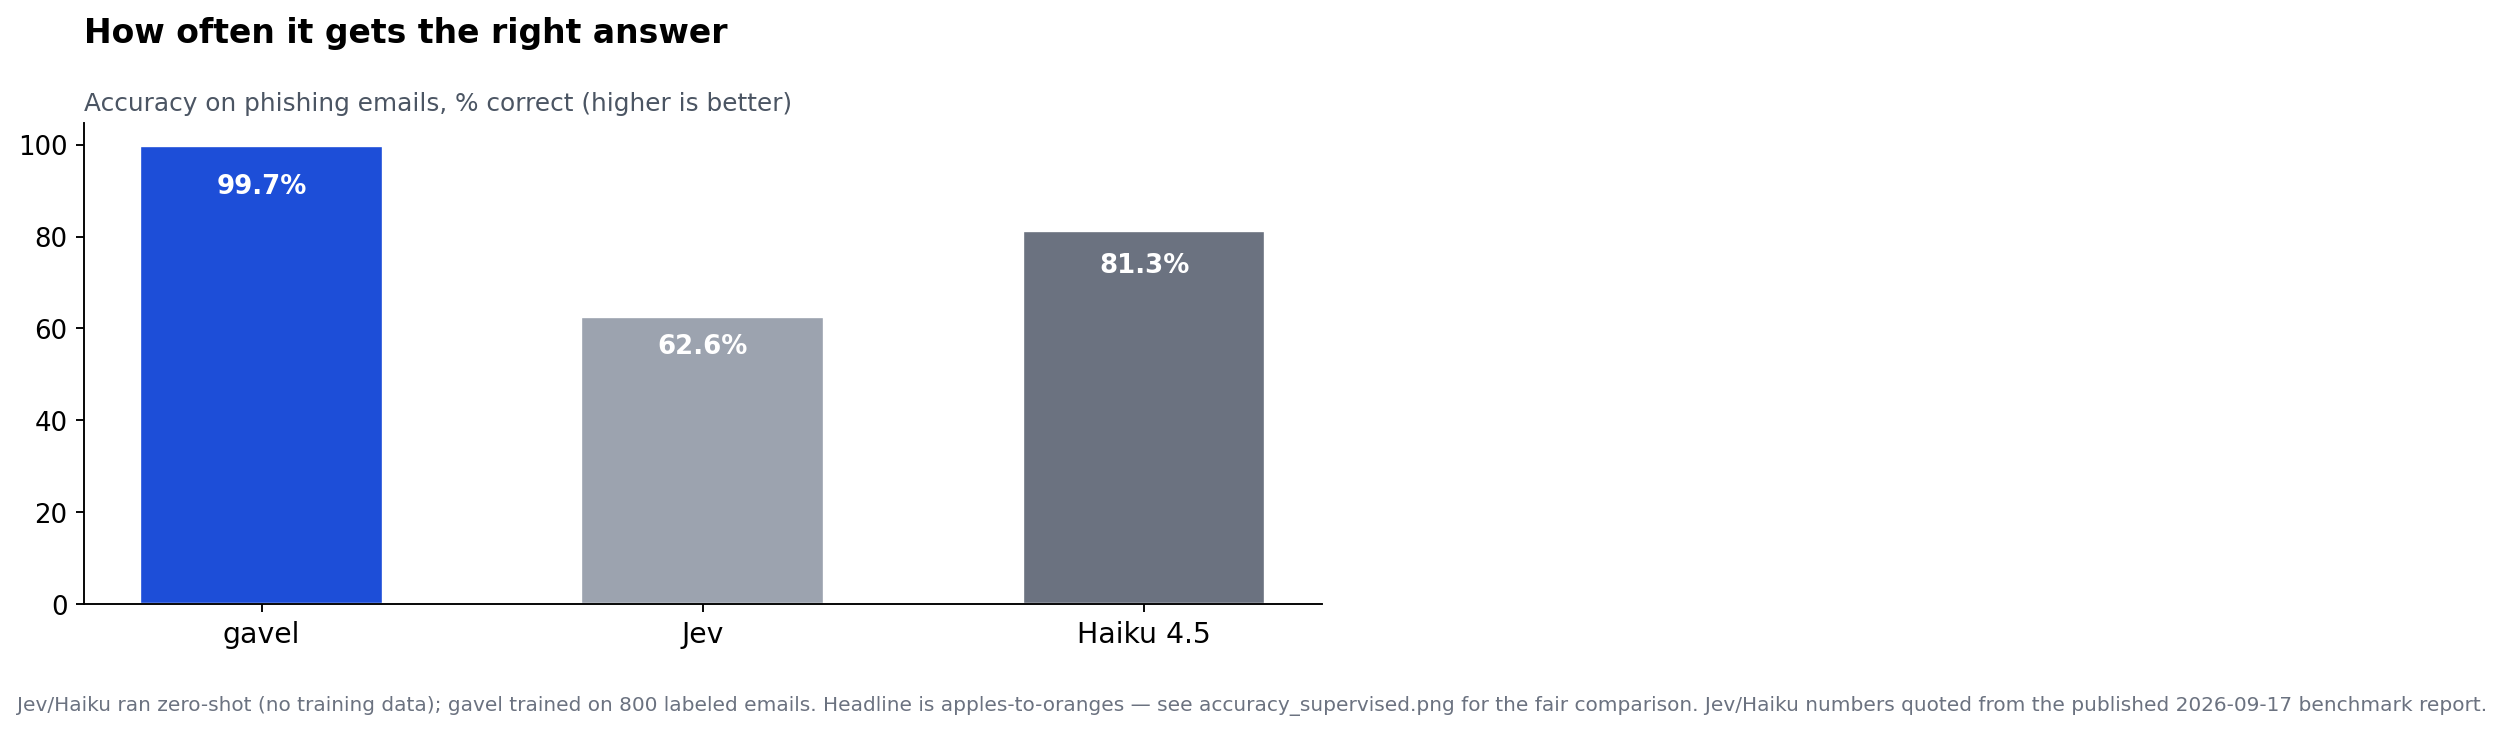
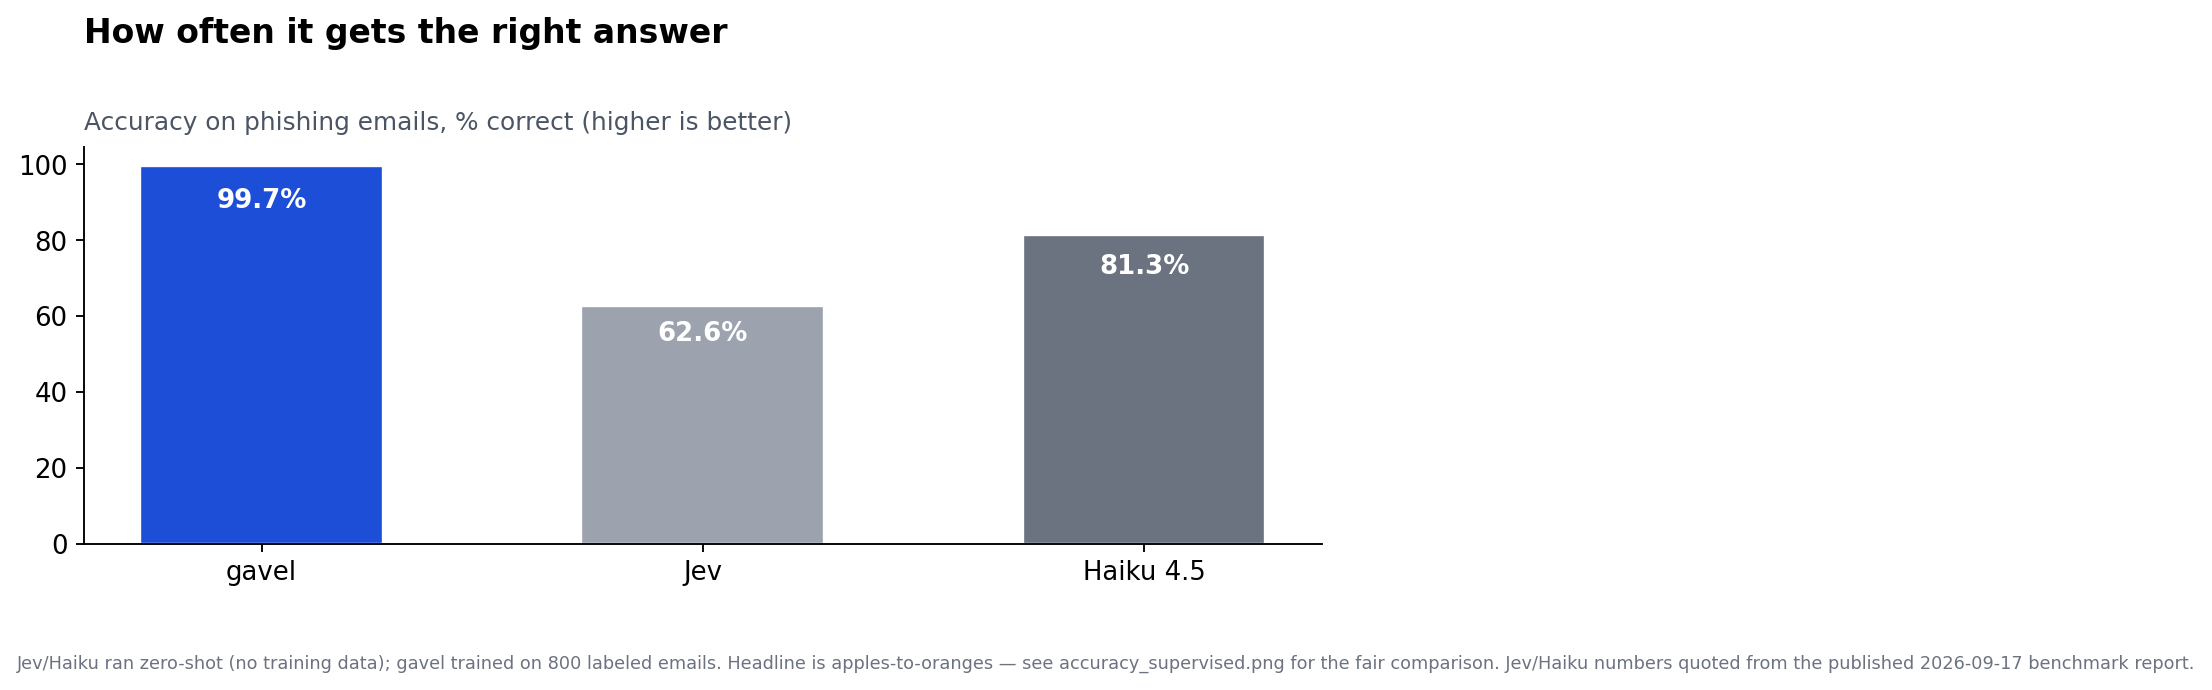
docs: label-efficiency evidence, few-shot charts, head-to-head comparison

diff --git a/benches/charts/make_charts.py b/benches/charts/make_charts.py
@@ -27,8 +27,9 @@ plt.rcParams.update({
 })
 
 def bar_chart(path, title, subtitle, labels, values, colors, fmt,
-              footnote=None, yerr=None, logy=False, ylabel=None):
-    fig, ax = plt.subplots(figsize=(8, 4.6))
+              footnote=None, yerr=None, logy=False, ylabel=None,
+              figsize=(8, 4.6), xtick_fontsize=11):
+    fig, ax = plt.subplots(figsize=figsize)
     x = range(len(labels))
     bars = ax.bar(x, values, color=colors, width=0.55, edgecolor="white",
                   yerr=yerr, capsize=6, ecolor="#374151",
@@ -36,10 +37,10 @@ def bar_chart(path, title, subtitle, labels, values, colors, fmt,
     if logy:
         ax.set_yscale("log")
     ax.set_xticks(list(x))
-    ax.set_xticklabels(labels, fontsize=12)
-    ax.set_title(title, loc="left", pad=34)
+    ax.set_xticklabels(labels, fontsize=xtick_fontsize)
+    ax.set_title(title, loc="left", pad=44)
     if subtitle:
-        ax.text(0, 1.015, subtitle, transform=ax.transAxes, fontsize=10.5,
+        ax.text(0, 1.03, subtitle, transform=ax.transAxes, fontsize=10.5,
                 color="#4b5563", va="bottom", ha="left")
     if ylabel:
         ax.set_ylabel(ylabel, color="#4b5563")
@@ -53,7 +54,9 @@ def bar_chart(path, title, subtitle, labels, values, colors, fmt,
         h = b.get_height()
         cx = b.get_x() + b.get_width() / 2
         if logy:
-            ax.text(cx, h * 1.3, txt, ha="center", va="bottom",
+            # log scale: labels sit above the bar; give the axes headroom so
+            # they never touch the subtitle
+            ax.text(cx, h * 1.4, txt, ha="center", va="bottom",
                     fontsize=11, fontweight="bold")
         elif h > 0.18 * ymax:
             ax.text(cx, h * 0.94, txt, ha="center", va="top",
@@ -61,10 +64,12 @@ def bar_chart(path, title, subtitle, labels, values, colors, fmt,
         else:
             ax.text(cx, h + 0.03 * ymax, txt, ha="center", va="bottom",
                     fontsize=11, fontweight="bold")
+    if logy:
+        ax.set_ylim(top=ymax * 2.6)
     if footnote:
-        fig.text(0.02, 0.01, footnote, fontsize=8.5, color="#6b7280", wrap=True,
+        fig.text(0.02, 0.025, footnote, fontsize=7.5, color="#6b7280",
                  ha="left", va="bottom")
-    fig.tight_layout(rect=[0, 0.06, 1, 0.94])
+    fig.tight_layout(rect=[0, 0.10, 1, 0.90])
     fig.savefig(os.path.join(OUT, path), bbox_inches="tight")
     plt.close(fig)
     print("wrote", path)
@@ -130,6 +135,64 @@ bar_chart(
     [l for l, _, _ in cost], [v for _, v, _ in cost],
     [GAVEL, OTHER, OTHER2], [t for _, _, t in cost],
     footnote="Gavel: $0 marginal (self-hosted \u2014 your hardware, not literally zero TCO). Jev/Haiku: published list prices.")
+
+NAVY = "#1e3a8a"   # full-data baselines
+
+# --- label-efficiency experiment (2026-09-20, issue-triage task) ---
+# SetFit (all-MiniLM-L6-v2, num_iterations=5, 1 epoch, seed 42) vs TF-IDF
+# trained on the exact same 8/16/32-per-class subsamples; full-data TF-IDF
+# and frozen MiniLM + logreg trained on all 5,832 examples.
+# Same 1,250-issue test set throughout; latencies are 2-thread CPU wall-clock.
+few_labels = ["SetFit 8", "TF-IDF 8",
+              "SetFit 16", "TF-IDF 16",
+              "SetFit 32", "TF-IDF 32",
+              "frozen MiniLM", "TF-IDF full"]
+few_colors = [GAVEL, OTHER, GAVEL, OTHER, GAVEL, OTHER, OTHER2, NAVY]
+few_acc = [59.28, 66.16, 63.92, 62.48, 72.88, 68.48, 78.16, 82.72]
+few_train_s = [297, 0.8, 536, 0.8, 1064, 0.9, 788.6, 13.1]
+few_train_txt = ["297 s", "0.8 s", "536 s", "0.8 s", "1,064 s", "0.9 s",
+                 "789 s", "13.1 s"]
+few_lat_ms = [179.6, 0.0018, 177.6, 0.0023, 175.9, 0.0023, 96.5, 1.1]
+few_lat_txt = ["180 ms", "0.0018 ms", "178 ms", "0.0023 ms", "176 ms",
+               "0.0023 ms", "96.5 ms", "1.1 ms"]
+
+bar_chart(
+    "fewshot_accuracy.png",
+    "What tens of labels buy you",
+    "Test accuracy on the same 1,250 issues, % correct (higher is better)\n"
+    "blue = SetFit (fine-tuned MiniLM) \u00b7 gray = same-budget TF-IDF \u00b7 "
+    "dark gray = frozen MiniLM \u00b7 navy = full-data TF-IDF baseline",
+    few_labels, few_acc, few_colors, lambda v: f"{v:.1f}%",
+    footnote=("SetFit: all-MiniLM-L6-v2, num_iterations=5 (not the default 20), "
+              "1 epoch, single seed 42 \u2014 one noisy draw, not a mean. "
+              "TF-IDF rows use the same subsamples; same 1,250-issue test set; "
+              "random split, duplicate leakage unaudited."),
+    figsize=(9.6, 4.8), xtick_fontsize=10)
+
+bar_chart(
+    "fewshot_cost.png",
+    "What those extra points cost",
+    "Training wall-clock, seconds (lower is better) \u00b7 log scale\n"
+    "blue = SetFit \u00b7 gray = same-budget TF-IDF \u00b7 "
+    "dark gray = frozen MiniLM \u00b7 navy = full-data TF-IDF baseline",
+    few_labels, few_train_s, few_colors, few_train_txt,
+    logy=True,
+    footnote=("Wall-clock on 2 CPU threads; frozen MiniLM = 788 s encoding + 0.6 s fitting. "
+              "Relative ordering is robust; exact seconds are not."),
+    figsize=(9.6, 4.8), xtick_fontsize=10)
+
+bar_chart(
+    "fewshot_latency.png",
+    "The price you pay at decision time",
+    "Per-question latency, milliseconds (lower is better) \u00b7 log scale\n"
+    "blue = SetFit \u00b7 gray = same-budget TF-IDF \u00b7 "
+    "dark gray = frozen MiniLM \u00b7 navy = full-data TF-IDF baseline",
+    few_labels, few_lat_ms, few_colors, few_lat_txt,
+    logy=True,
+    footnote=("Encode+predict over 1,250 test questions (200 for frozen MiniLM); "
+              "TF-IDF full-data from the flagship harness; 2-thread CPU; "
+              "TF-IDF rows are scikit-learn in-process, SetFit/frozen are encoder-bound."),
+    figsize=(9.6, 4.8), xtick_fontsize=10)
 
 bar_chart(
     "ece_scaling_synthetic.png",

diff --git a/README.md b/README.md
@@ -191,6 +191,54 @@ From the [independent phishing benchmark reproduction](benches/results/phishing-
 
 Charts are generated by `python3 benches/charts/make_charts.py` — every number is traceable to a measured run or a cited report.
 
+## Training evidence
+
+Small models are only interesting if training them is cheap and the numbers are real. The flagship experiment is issue triage: 8,332 real Kubernetes issues, labels `bug` / `docs` / `feature` / `support`, split 5,832 train / 1,250 calibration / 1,250 test with a fixed stratified seed. The split is random, not temporal, and duplicate leakage was not audited — so read these as "same-distribution" numbers.
+
+| setup | labels used | train time | test accuracy | macro-F1 | per question |
+|---|---|---|---|---|---|
+| TF-IDF + logreg (full) | 5,832 | 13.1 s | 82.72% | 0.7875 | ~1.1 ms |
+| frozen MiniLM + logreg | 5,832 | 788 s encode + 0.6 s fit | 78.16% | 0.7335 | ~96.5 ms |
+| SetFit, 32 per class | 128 | 1,064 s | 72.88% | 0.6839 | ~176 ms |
+| TF-IDF, 32 per class | 128 | 0.9 s | 68.48% | 0.6359 | ~0.002 ms |
+| SetFit, 16 per class | 64 | 536 s | 63.92% | 0.5735 | ~178 ms |
+| TF-IDF, 16 per class | 64 | 0.8 s | 62.48% | 0.5619 | ~0.002 ms |
+| SetFit, 8 per class | 32 | 297 s | 59.28% | 0.5498 | ~180 ms |
+| TF-IDF, 8 per class | 32 | 0.8 s | 66.16% | 0.6202 | ~0.002 ms |
+
+SetFit here is few-shot contrastive fine-tuning of `all-MiniLM-L6-v2` (1 epoch, batch 16). The TF-IDF rows use the exact same 8/16/32-per-class subsamples, so the comparison is about label efficiency, not data. Calibration (temperature scaling) was fitted on the calibration split only, for every row.
+
+![What tens of labels buy you](benches/charts/fewshot_accuracy.png)
+![What those extra points cost](benches/charts/fewshot_cost.png)
+![The price you pay at decision time](benches/charts/fewshot_latency.png)
+
+Reading it straight:
+
+- **With tens of labels, the encoder starts earning its keep — eventually.** SetFit trails same-budget TF-IDF at 8 examples per class (59.3 vs 66.2) but overtakes it by 32 (72.9 vs 68.5). The crossover is real, and the price is steep: roughly 1,000× the training time and 100,000× the per-question latency for +4.4 points. Whether that trade is worth it depends on how much a labeled example costs you.
+- **Embeddings help; they don't beat a well-tuned baseline.** Frozen MiniLM embeddings + logistic regression on all 5,832 examples reach 78.2% — better than any few-shot run, still 4.6 points behind full-data TF-IDF at 82.7%. On this task the humble bag-of-words wins, and it trains in 13 seconds.
+- **Calibration behaves everywhere.** Temperature scaling on the held-out calibration set cut expected calibration error from ~0.19–0.32 down to ~0.04–0.05 across every few-shot row, with accuracy untouched — the theory holding up on real data.
+
+Caveats, attached: the few-shot rows are a single draw (seed 42) — few-shot sampling is noisy and a different seed could move those numbers several points, so don't treat any single figure as the method's true mean. `num_iterations=5` is a cost-driven deviation from SetFit's default of 20; more iterations might widen SetFit's lead, at ~14 s/step on 2 CPU threads. Wall clocks are from a 2-thread CPU shared between runs — relative ordering is robust, exact seconds are not. Latency is encode+predict averaged over the test questions; TF-IDF rows are scikit-learn in-process while SetFit/frozen are encoder-bound, so the ~100,000× inference gap partly reflects implementation, not just architecture.
+
+This is the evidence behind the `gavel train` ladder on the roadmap: an instant TF-IDF baseline in seconds, a SetFit few-shot rung for when tens of labels exist and minutes of training are acceptable, and teacher distillation for the zero-label case.
+
+### Against a hosted generalist
+
+Same 1,250-issue test set, measured 2026-09-20: gavel's trained specialist (TF-IDF engine with energy abstention) against a hosted zero-shot decision API.
+
+| | Gavel (trained) | Hosted API (zero-shot) |
+|---|---|---|
+| Accuracy, answered only | 84.30% (1004/1191) | 81.95% (849/1036) |
+| Accuracy, abstentions/errors count as wrong | 80.32% | 67.92% |
+| Macro-F1 | 0.8046 | 0.7902 |
+| ECE | 0.0306 | 0.0897 |
+| Abstention rate | 4.72% | — |
+| Request errors | 0 | 17.12% (provider-side drops) |
+| Latency p50 / p99 | 1.1 / 6.7 ms | 436.1 / 732.9 ms |
+| Marginal cost per 1,000 decisions | ~$0 (owned CPU, hardware excluded) | $0.0401 |
+
+Say it plainly: this is a trained specialist against a zero-shot generalist — an expected win, not a verdict on anyone's intelligence, and not a claim that gavel is categorically better. Gavel ran locally; the hosted side includes network and provider-side failures. The defensible edges are +2.35 points answered accuracy, +12.4 points counting failures as wrong, and ~400× lower p50 latency measured locally. The hosted API's real advantage is the one gavel doesn't have yet: it needed zero training data, which is exactly the gap `gavel train` has to close.
+
 ## Cookbooks
 
 `docs/cookbooks/` holds end-to-end patterns measured on real runs:
@@ -209,7 +257,7 @@ Charts are generated by `python3 benches/charts/make_charts.py` — every number
 
 ## Roadmap
 
-- **Training pipeline.** `gavel train`: a question spec plus raw text in, a calibrated, abstention-equipped question out. Three rungs — instant TF-IDF/logistic baseline, few-shot training on tens of labels, and teacher distillation (a frontier model labels, a small model learns) for the zero-label case. Making a new question cheap is what closes the gap with zero-shot APIs.
+- **Training pipeline.** `gavel train`: a question spec plus raw text in, a calibrated, abstention-equipped question out. Three rungs, now measured (see [Training evidence](#training-evidence)): an instant TF-IDF/logistic baseline (82.7% on issue triage in 13 s), a SetFit few-shot rung for tens of labels (overtakes same-budget TF-IDF at 32 per class, at steep cost), and teacher distillation (a frontier model labels, a small model learns) for the zero-label case. Making a new question cheap is what closes the gap with zero-shot APIs.
 - **Persistence.** Save and load trained questions (weights + temperature) so the server survives restarts.
 - **ONNX engine (inference core shipped).** `crates/decide-onnx`: real ONNX Runtime inference behind the same `Engine` trait, selectable per question via `POST /define`, with graceful fallback to the logistic engine. What's still ahead is the distillation pipeline that produces a production-grade model — see `docs/M3-onnx-engine.md`.
 - **Real-data benchmarks.** The synthetic harness is a starting point; we want published numbers on real labeled datasets, wins and losses both.
